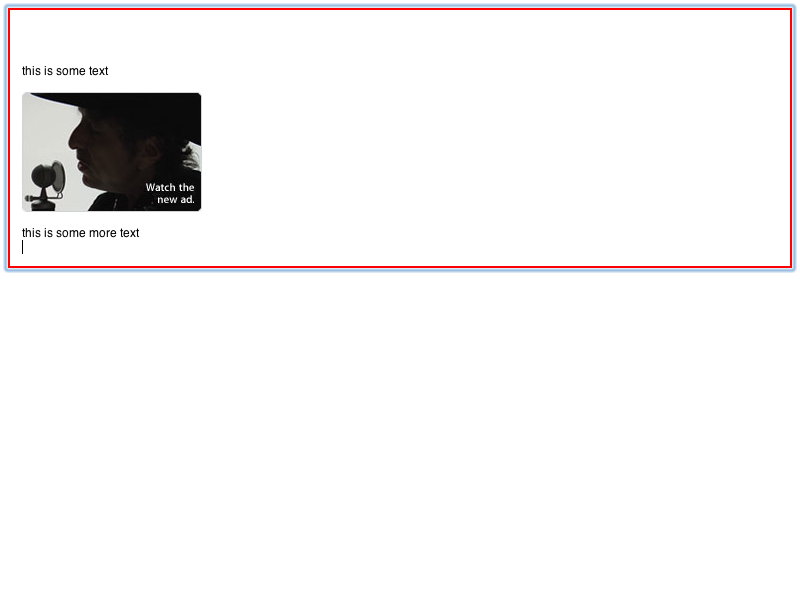
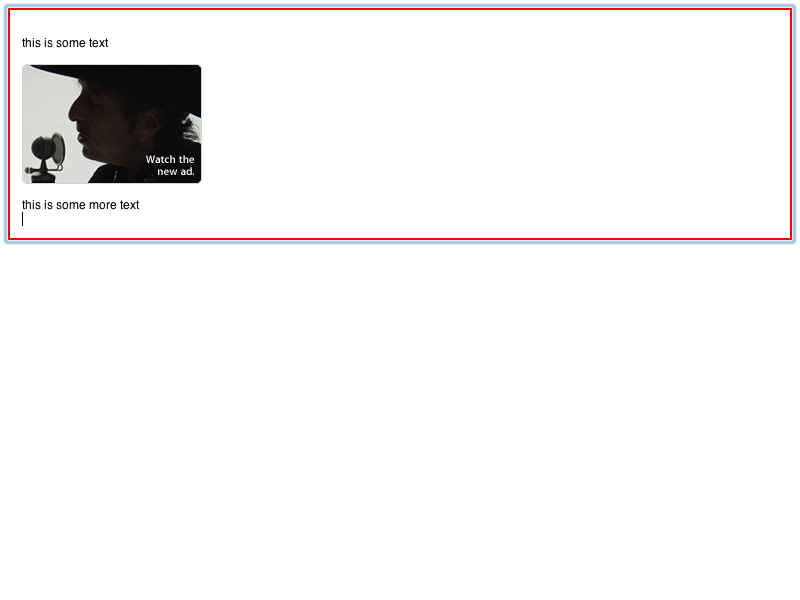
WebCore:
Reviewed by Harrison.

        <rdar://problem/5483567> REGRESSION (Tiger only): Pasting words copied from TextEdit in Mail adds extra newline
        
        * editing/ReplaceSelectionCommand.cpp:
        (WebCore::ReplaceSelectionCommand::removeUnrenderedTextNodesAtEnds): Added.
        We would like to insert the fragment as-is if possible, but AppKit on Tiger
        creates fragments from RTF data that have carriage returns and spaces at the
        beginning and end, and those need to be removed since they'll interfere with 
        paragraph merging.
        (WebCore::ReplaceSelectionCommand::doApply):
        * editing/ReplaceSelectionCommand.h:

LayoutTests:

        Reviewed by Harrison.
        
        <rdar://problem/5483567> REGRESSION (Tiger only): Pasting words copied from TextEdit in Mail adds extra newline

        Re-enabling this test:
        * editing/pasteboard/5483567.html: Added.
        * editing/pasteboard/5483567.html-disabled: Removed.
        Also demonstrates fix:
        * platform/mac/editing/pasteboard/paste-RTFD-expected.checksum:
        * platform/mac/editing/pasteboard/paste-RTFD-expected.png:
        * platform/mac/editing/pasteboard/paste-RTFD-expected.txt:

git-svn-id: https://svn.webkit.org/repository/webkit/trunk@26374 268f45cc-cd09-0410-ab3c-d52691b4dbfc

Changed region(s): [[0.0, 0.06, 1.0, 0.48]]

diff --git a/LayoutTests/editing/pasteboard/5483567.html b/LayoutTests/editing/pasteboard/5483567.html
@@ -1,0 +1,7 @@
+<div id="div" contenteditable="true">xx</div>
+
+<script>
+text = document.getElementById("div").firstChild;
+window.getSelection().setPosition(text, 1);
+document.execCommand("InsertHTML", false, " <div>foo</div> ");
+</script>

diff --git a/WebCore/editing/ReplaceSelectionCommand.cpp b/WebCore/editing/ReplaceSelectionCommand.cpp
@@ -391,6 +391,28 @@ void ReplaceSelectionCommand::negateStyleRulesThatAffectAppearance()
     }
 }
 
+void ReplaceSelectionCommand::removeUnrenderedTextNodesAtEnds()
+{
+    document()->updateLayoutIgnorePendingStylesheets();
+    if (!m_lastLeafInserted->renderer() && 
+        m_lastLeafInserted->isTextNode() && 
+        !enclosingNodeWithTag(m_lastLeafInserted.get(), selectTag) && 
+        !enclosingNodeWithTag(m_lastLeafInserted.get(), scriptTag)) {
+        RefPtr<Node> previous = m_firstNodeInserted == m_lastLeafInserted ? 0 : m_lastLeafInserted->traversePreviousNode();
+        removeNode(m_lastLeafInserted.get());
+        m_lastLeafInserted = previous;
+    }
+    
+    // We don't have to make sure that m_firstNodeInserted isn't inside a select or script element, because
+    // it is a top level node in the fragment and the user can't insert into those elements.
+    if (!m_firstNodeInserted->renderer() && 
+        m_firstNodeInserted->isTextNode()) {
+        RefPtr<Node> next = m_firstNodeInserted == m_lastLeafInserted ? 0 : m_firstNodeInserted->traverseNextSibling();
+        removeNode(m_firstNodeInserted.get());
+        m_firstNodeInserted = next;
+    }
+}
+
 void ReplaceSelectionCommand::removeRedundantStyles(Node* mailBlockquoteEnclosingSelectionStart)
 {
     // There's usually a top level style span that holds the document's default style, push it down.
@@ -633,6 +655,8 @@ void ReplaceSelectionCommand::doApply()
         refNode = node;
         node = next;
     }
+    
+    removeUnrenderedTextNodesAtEnds();
     
     negateStyleRulesThatAffectAppearance();
     

diff --git a/WebCore/editing/ReplaceSelectionCommand.h b/WebCore/editing/ReplaceSelectionCommand.h
@@ -89,6 +89,8 @@ private:
     bool shouldMergeEnd(bool);
     bool shouldMerge(const VisiblePosition&, const VisiblePosition&);
     
+    void removeUnrenderedTextNodesAtEnds();
+    
     void negateStyleRulesThatAffectAppearance();
     void removeRedundantStyles(Node*);
     
